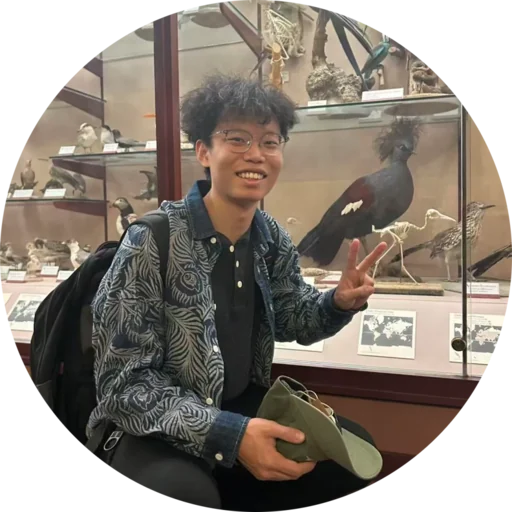
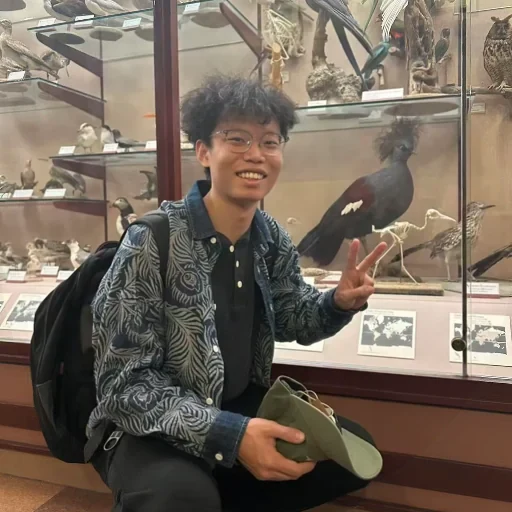
Team page: Haotian's and Ohm's photos are full squares too (from their original photos)

diff --git a/.claude/skills/picasso-avatar-fx/SKILL.md b/.claude/skills/picasso-avatar-fx/SKILL.md
@@ -31,7 +31,7 @@ Every avatar on https://yufeiding.ucsd.edu/people/team is its own Google Sites e
 - `people/static/<name>.webp` — the photo: a full **square** 512 px webp (the circle is only the snippet's CSS
   `border-radius`, so visitors who save the picture get the square). Never bake a transparent circle into it.
   The 2026-11 squares were rebuilt from the original uploads in git history (SIFT alignment, the circle kept
-  pixel-exact, the corners colour-matched); Haotian's and Ohm's originals were not in git, theirs are still round.
+  pixel-exact, the corners colour-matched; Haotian's and Ohm's from originals the user supplied).
 - `people/static/fx/<name>-cut.webp` / `-plate.webp` — the person cut out / the photo with the person
   inpainted out. Make them with `python3 people/fx/tools/make_layers.py <name> --grid` (BiRefNet portrait
   matte via rembg; the `--grid` image is how you read landmarks — red lines every 128 photo px, labels every 64).
